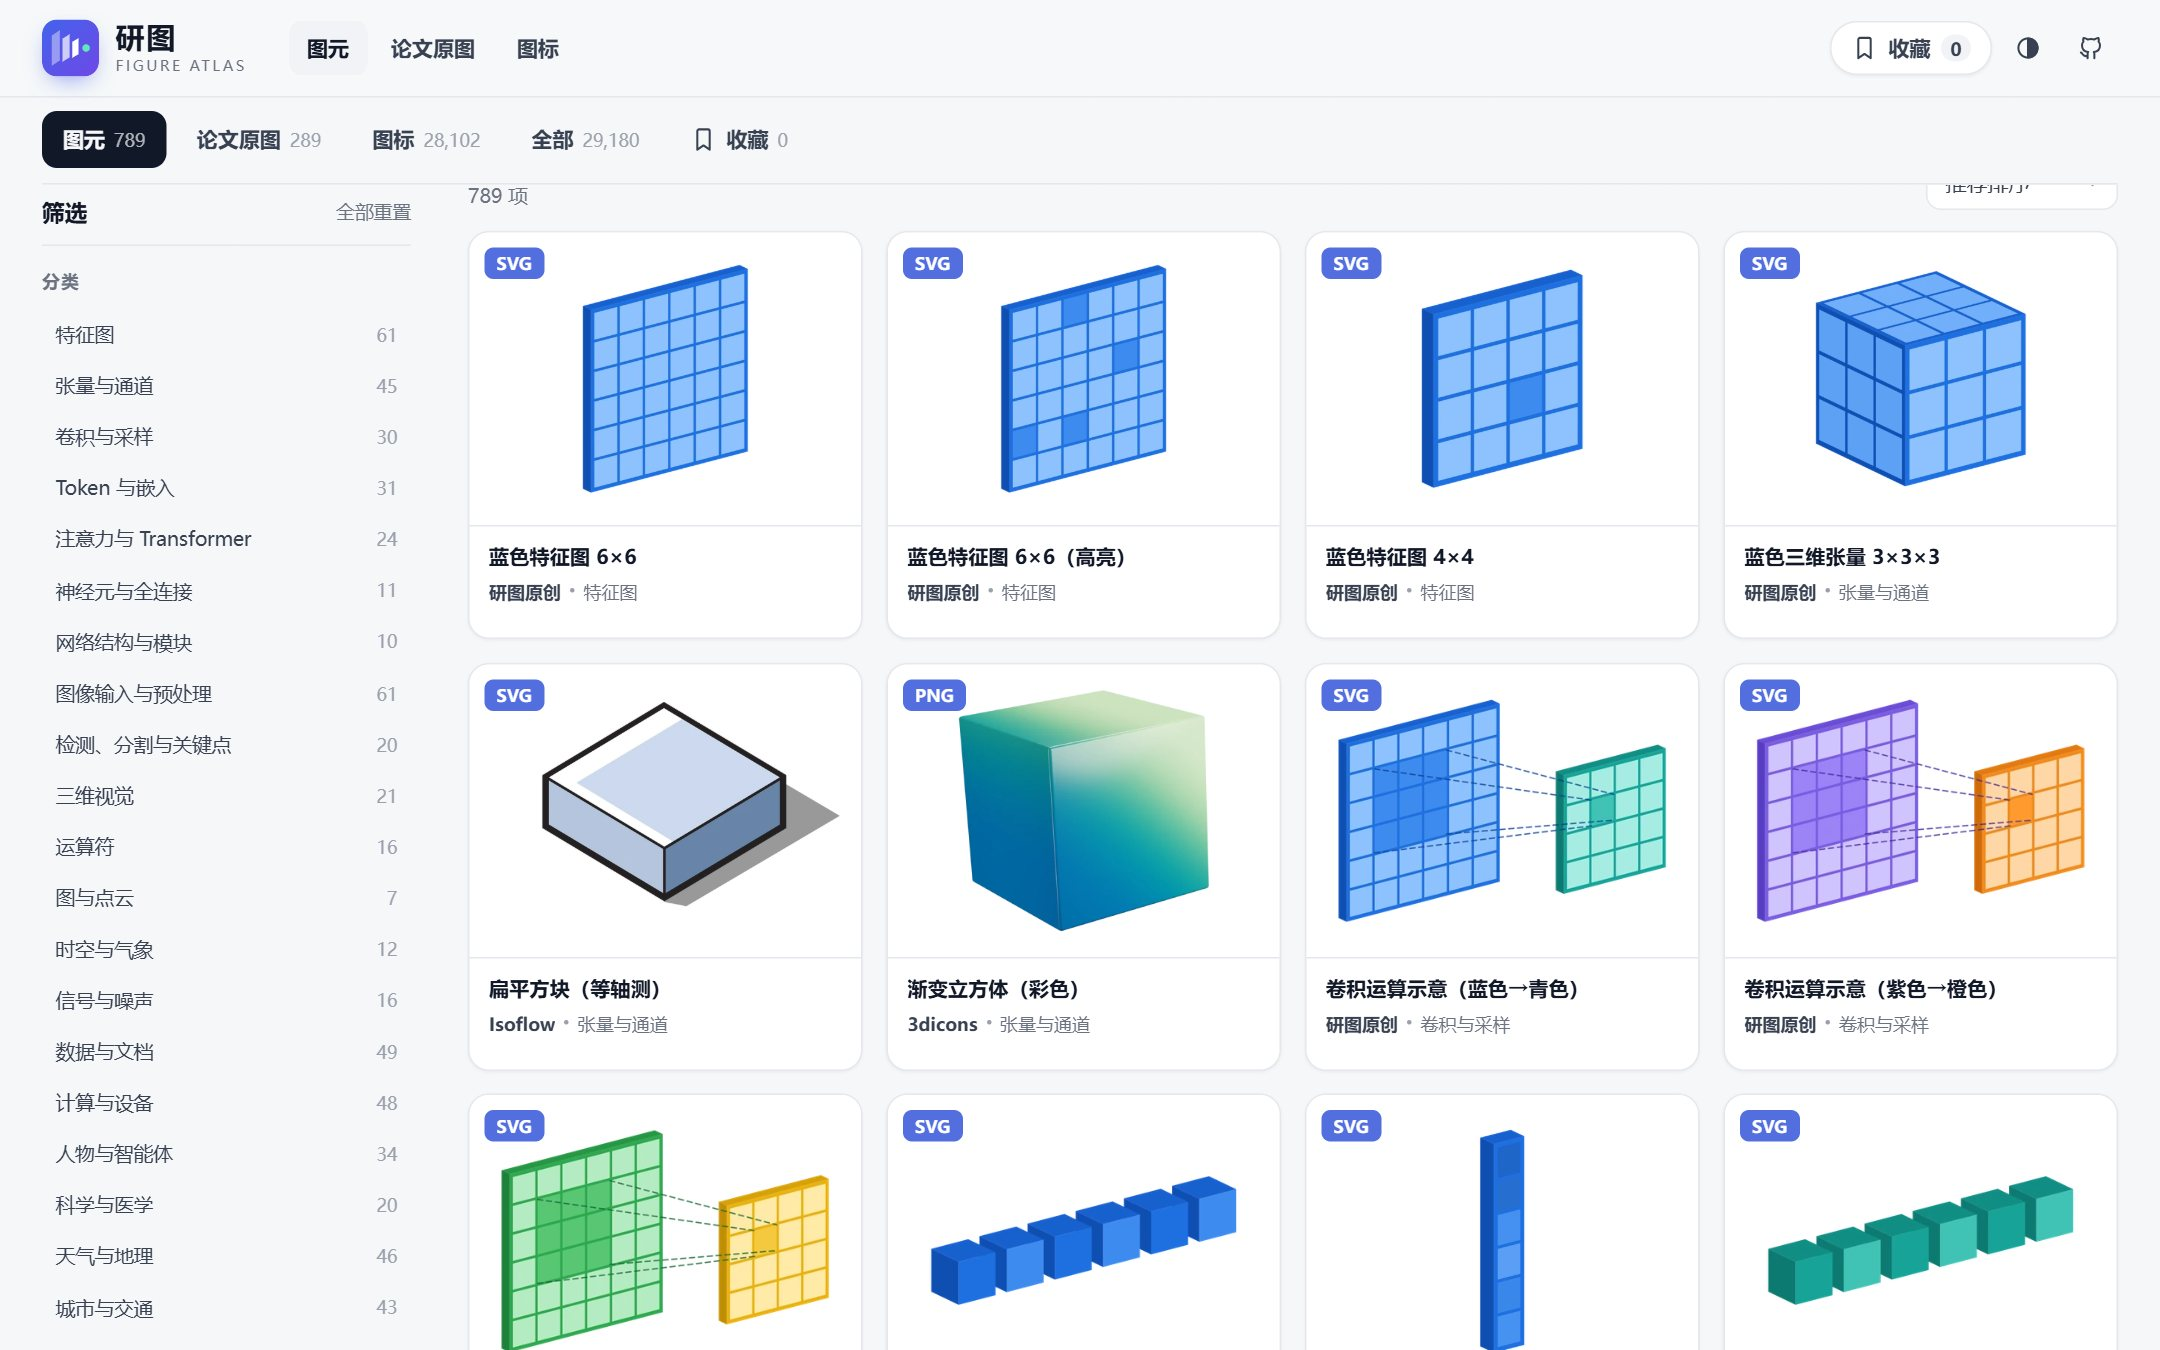
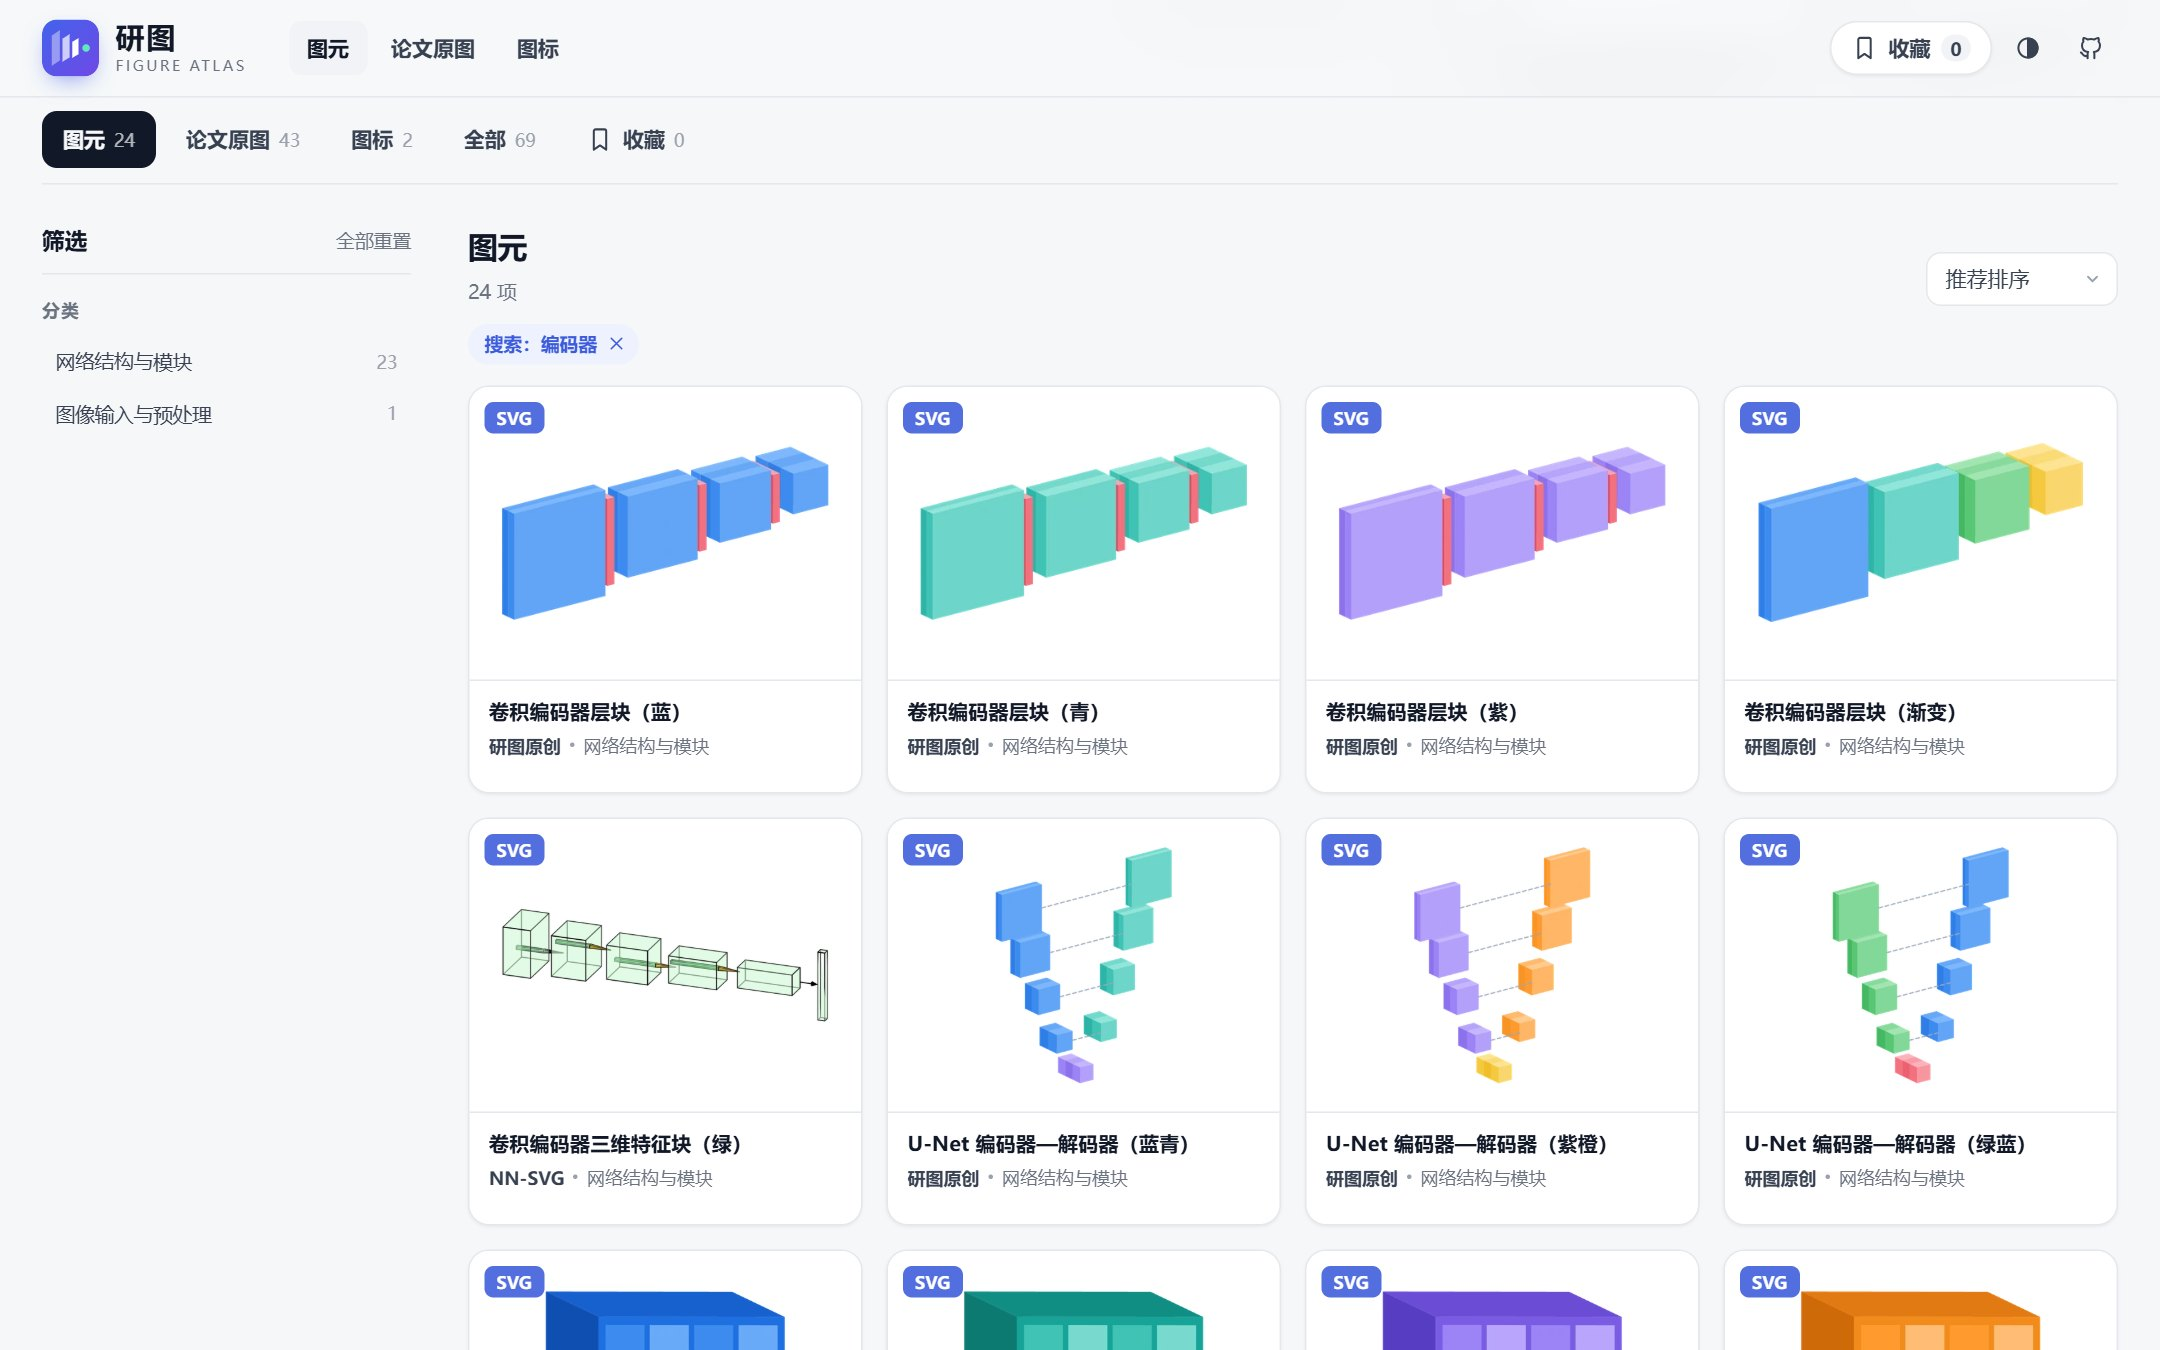
Drop the stats cards and refresh the README screenshots
The hero lead and the tabs already show the counts, so the three stat
cards above the tabs only repeated them. The README screenshots and the
share card still showed the 786-element site; retake them, add one for
the medical-imaging category, and match the README tagline to the hero.

diff --git a/dist/style.css b/dist/style.css
@@ -121,12 +121,7 @@ main { max-width: 1480px; margin: 0 auto; padding: 0 28px; }
 .hero-art .c1 { left: -14px; bottom: 26px; }
 .hero-art .c2 { right: 18px; top: 8px; }
 
-/* ---------------------------------------------------------------- stats & tabs */
-.stats { display: grid; grid-template-columns: repeat(3, minmax(0, 1fr)); gap: 12px; margin: 8px 0 30px; }
-.stat { text-align: left; padding: 16px 18px; border-radius: var(--radius); background: var(--surface); border: 1px solid var(--line); box-shadow: var(--shadow-sm); display: flex; flex-direction: column; gap: 2px; }
-button.stat:hover { border-color: color-mix(in srgb, var(--accent) 50%, var(--line)); }
-.stat b { font-size: 24px; font-weight: 700; letter-spacing: -.5px; font-variant-numeric: tabular-nums; }
-.stat span { color: var(--muted); font-size: 12.5px; }
+/* ---------------------------------------------------------------- tabs */
 .tabs { position: sticky; top: 64px; z-index: 20; display: flex; gap: 6px; padding: 10px 0; margin-bottom: 8px; background: var(--bg); border-bottom: 1px solid var(--line); overflow-x: auto; scrollbar-width: none; }
 .tabs::-webkit-scrollbar { display: none; }
 .tabs button { display: inline-flex; align-items: center; gap: 6px; white-space: nowrap; padding: 8px 14px; border-radius: 10px; color: var(--ink-2); font-weight: 600; }
@@ -312,9 +307,6 @@ button.stat:hover { border-color: color-mix(in srgb, var(--accent) 50%, var(--li
   .hero-lead { font-size: 14px; }
   .search { height: 52px; }
   .search kbd { display: none; }
-  .stats { gap: 8px; }
-  .stat { padding: 12px; }
-  .stat b { font-size: 19px; }
   .toolbar { flex-direction: column; align-items: stretch; }
   .toolbar-controls { justify-content: space-between; }
   .grid { grid-template-columns: repeat(2, minmax(0, 1fr)); gap: 10px; }
@@ -332,8 +324,5 @@ button.stat:hover { border-color: color-mix(in srgb, var(--accent) 50%, var(--li
 }
 
 /* 图元 is the lead collection */
-.stat.lead { background: linear-gradient(135deg, #4263eb, #7048e8); border-color: transparent; color: #fff; box-shadow: 0 10px 24px -12px rgba(66, 99, 235, .8); }
-.stat.lead span { color: rgba(255, 255, 255, .82); }
-button.stat.lead:hover { border-color: transparent; filter: brightness(1.06); }
 .card-art .kind.atomic { background: rgba(59, 91, 219, .88); }
 .empty-jump { display: flex; flex-wrap: wrap; justify-content: center; gap: 8px; margin: -4px 0 16px; }

diff --git a/dist/index.html b/dist/index.html
@@ -68,12 +68,6 @@
       <div class="hero-art" id="heroArt" aria-label="图元示例"></div>
     </section>
 
-    <section class="stats" aria-label="素材规模">
-      <button type="button" class="stat lead" data-tab-link="atomic"><b data-count="atomic">—</b><span>图元</span></button>
-      <button type="button" class="stat" data-tab-link="paper"><b data-count="papers">—</b><span>论文原图</span></button>
-      <button type="button" class="stat" data-tab-link="icon"><b data-count="icons">—</b><span>科研图标</span></button>
-    </section>
-
     <div class="tabs" role="tablist" id="tabs" aria-label="素材集合">
       <button type="button" role="tab" data-tab="atomic">图元 <span>—</span></button>
       <button type="button" role="tab" data-tab="paper">论文原图 <span>—</span></button>

diff --git a/README.md b/README.md
@@ -2,7 +2,7 @@
 
 <h1 align="center">研图 · Figure Atlas</h1>
 
-<p align="center">论文配图图元库</p>
+<p align="center">模型结构图的现成零件</p>
 
 画模型结构图要用的图元，共 1,084 个，分三部分：
 
@@ -27,7 +27,7 @@
 
 ### 图元
 
-![图元](docs/screenshot-elements.jpg)
+![图元：搜索「编码器」](docs/screenshot-elements.jpg)
 
 原创图元、计算机视觉图元和收集的物件按内容统一分为 25 类：
 
@@ -64,6 +64,8 @@
 **计算机视觉图元**（169 个，CC0）：其中 128 个由 19 张 CC0 / 公有领域照片与医学图像（Wikimedia Commons 与 scikit-image 示例图）用 [`pipeline/elements/vision.py`](pipeline/elements/vision.py) 处理得到：分割用 GrabCut 生成，边缘用 Canny / Sobel，超像素用 SLIC，细胞核用阈值加分水岭分割，脑组织用 k-means 分类，特征图是 Gabor、高斯差分与颜色对立滤波器组的整流响应，各种退化按成像模型合成，检测框、人体关键点、提示点与涂鸦为人工标注；其余为同一等轴测风格的三维视觉示意，SVG 可编辑。详情页给出原始照片链接。
 
 ![计算机视觉图元：三维视觉](docs/screenshot-vision.jpg)
+
+![计算机视觉图元：医学影像](docs/screenshot-medical.jpg)
 
 **收集的物件**：
 
